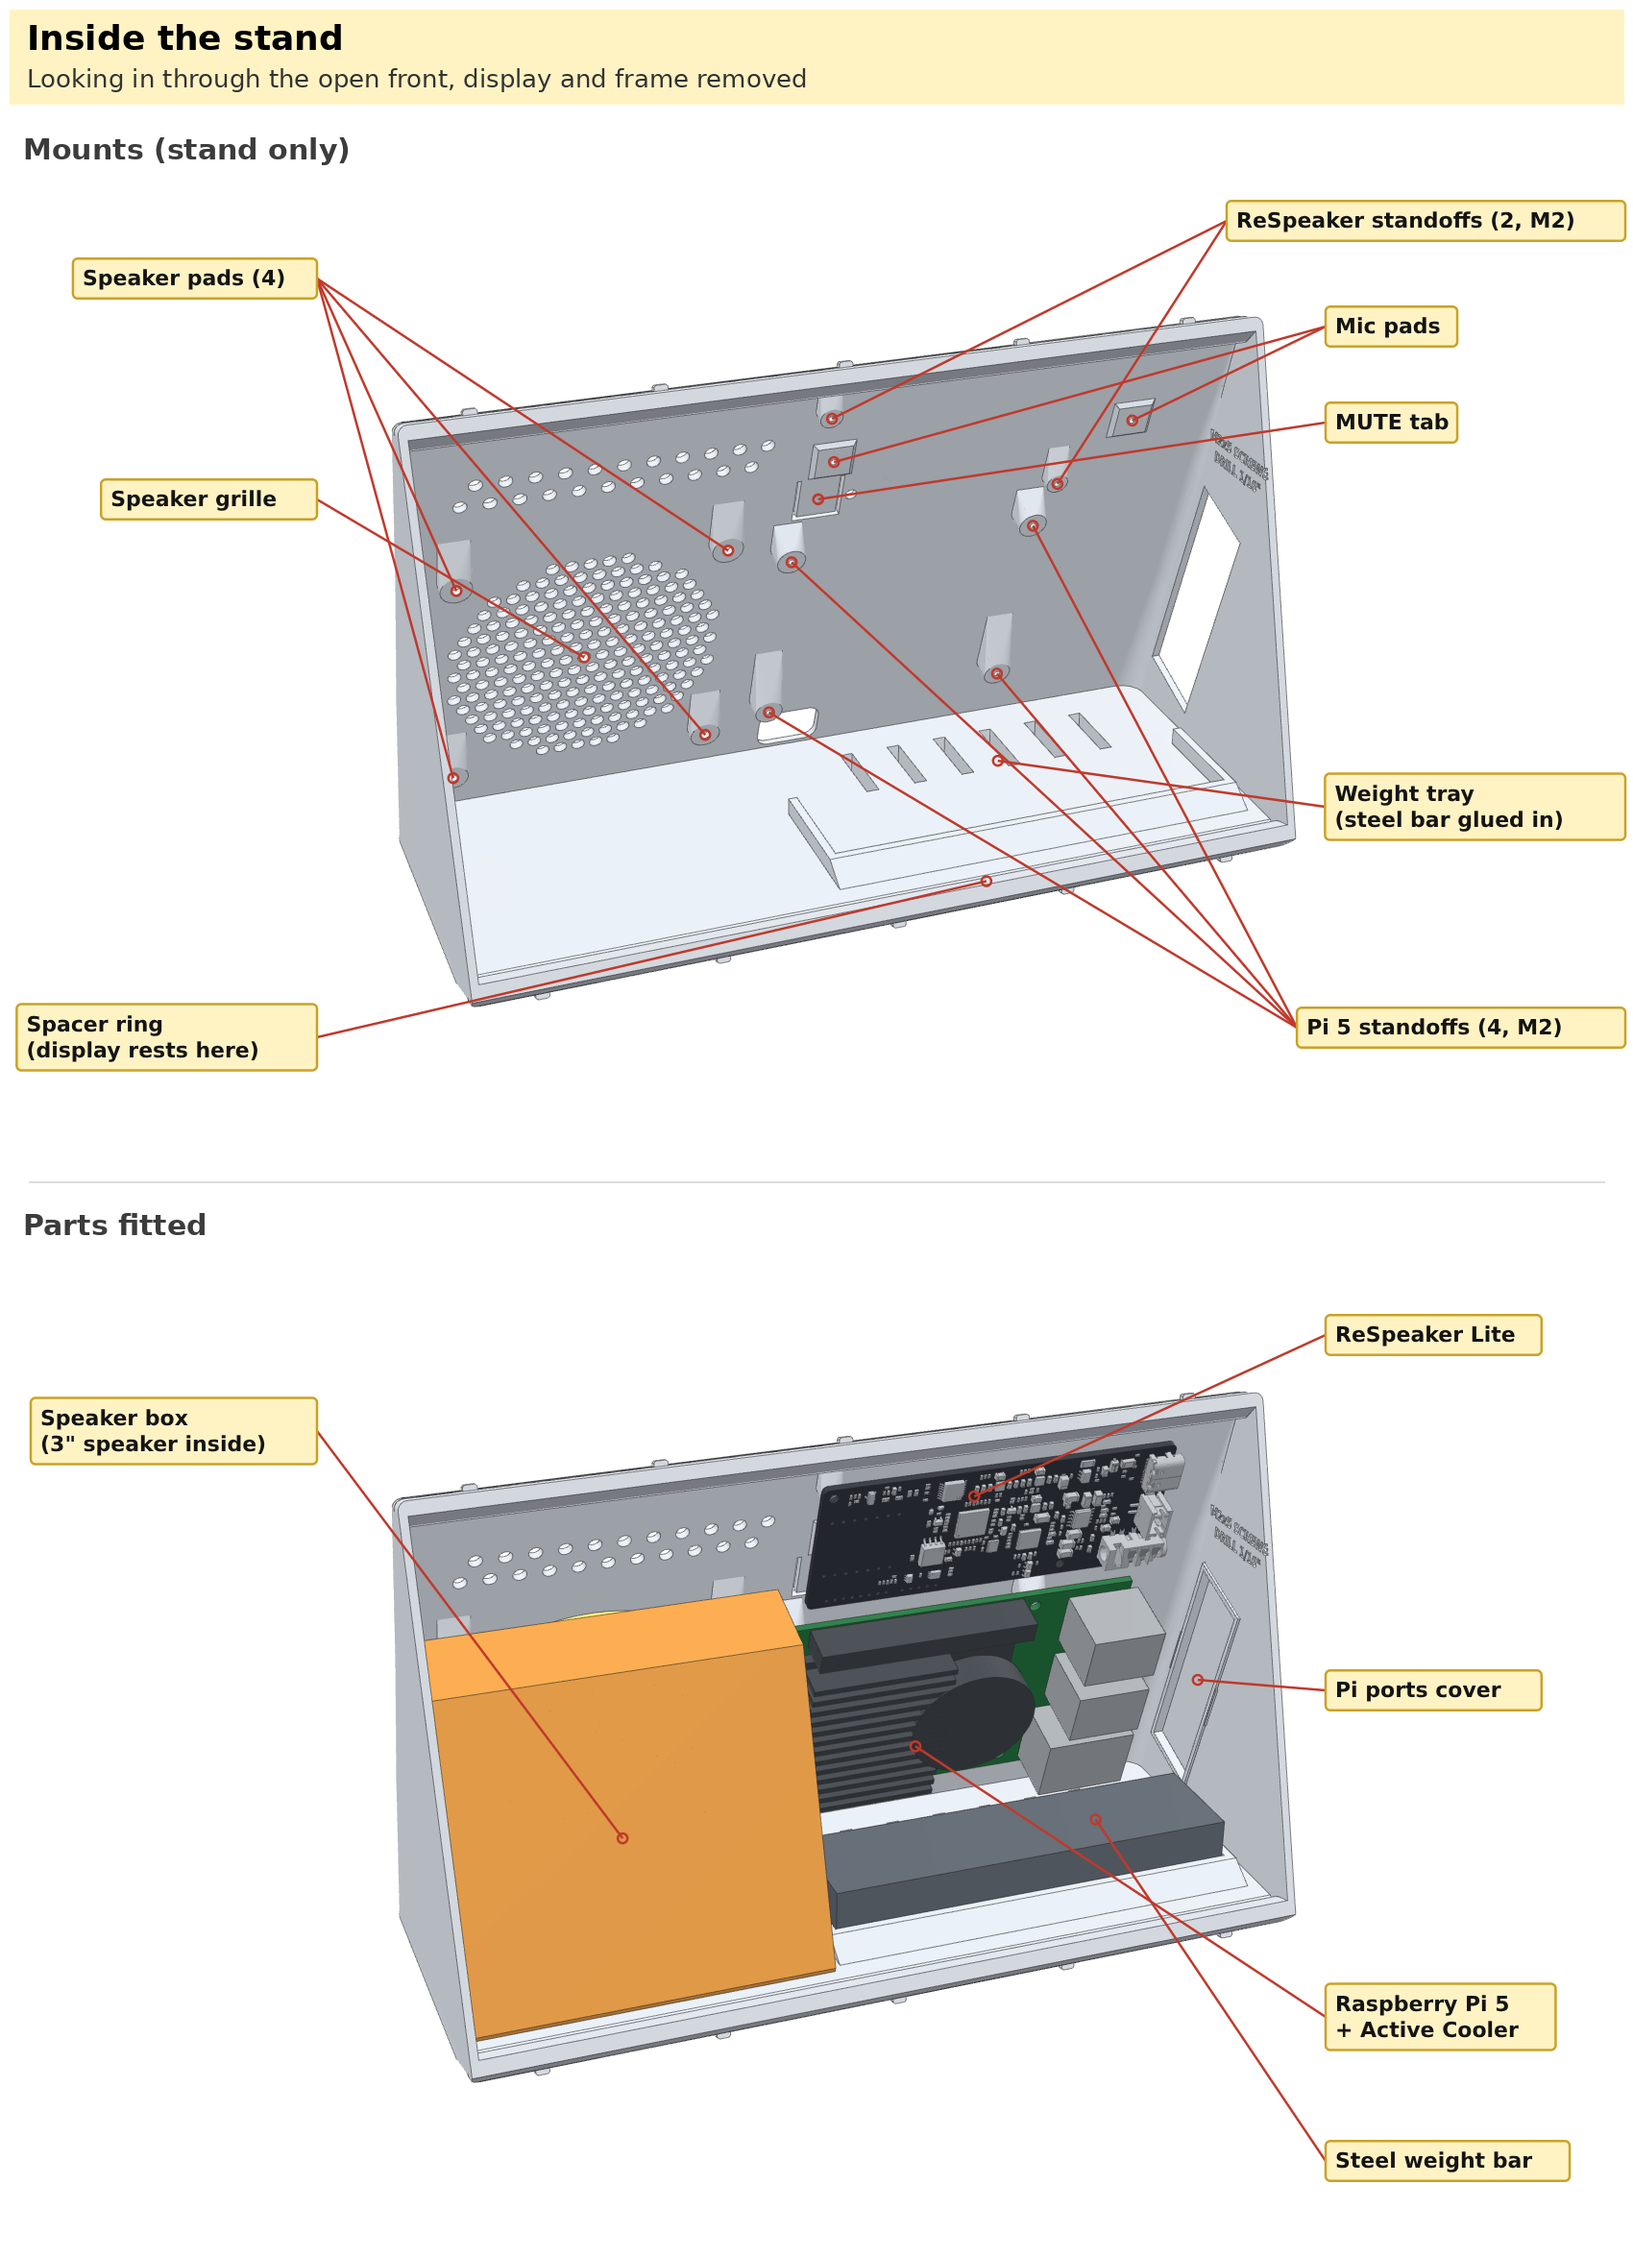
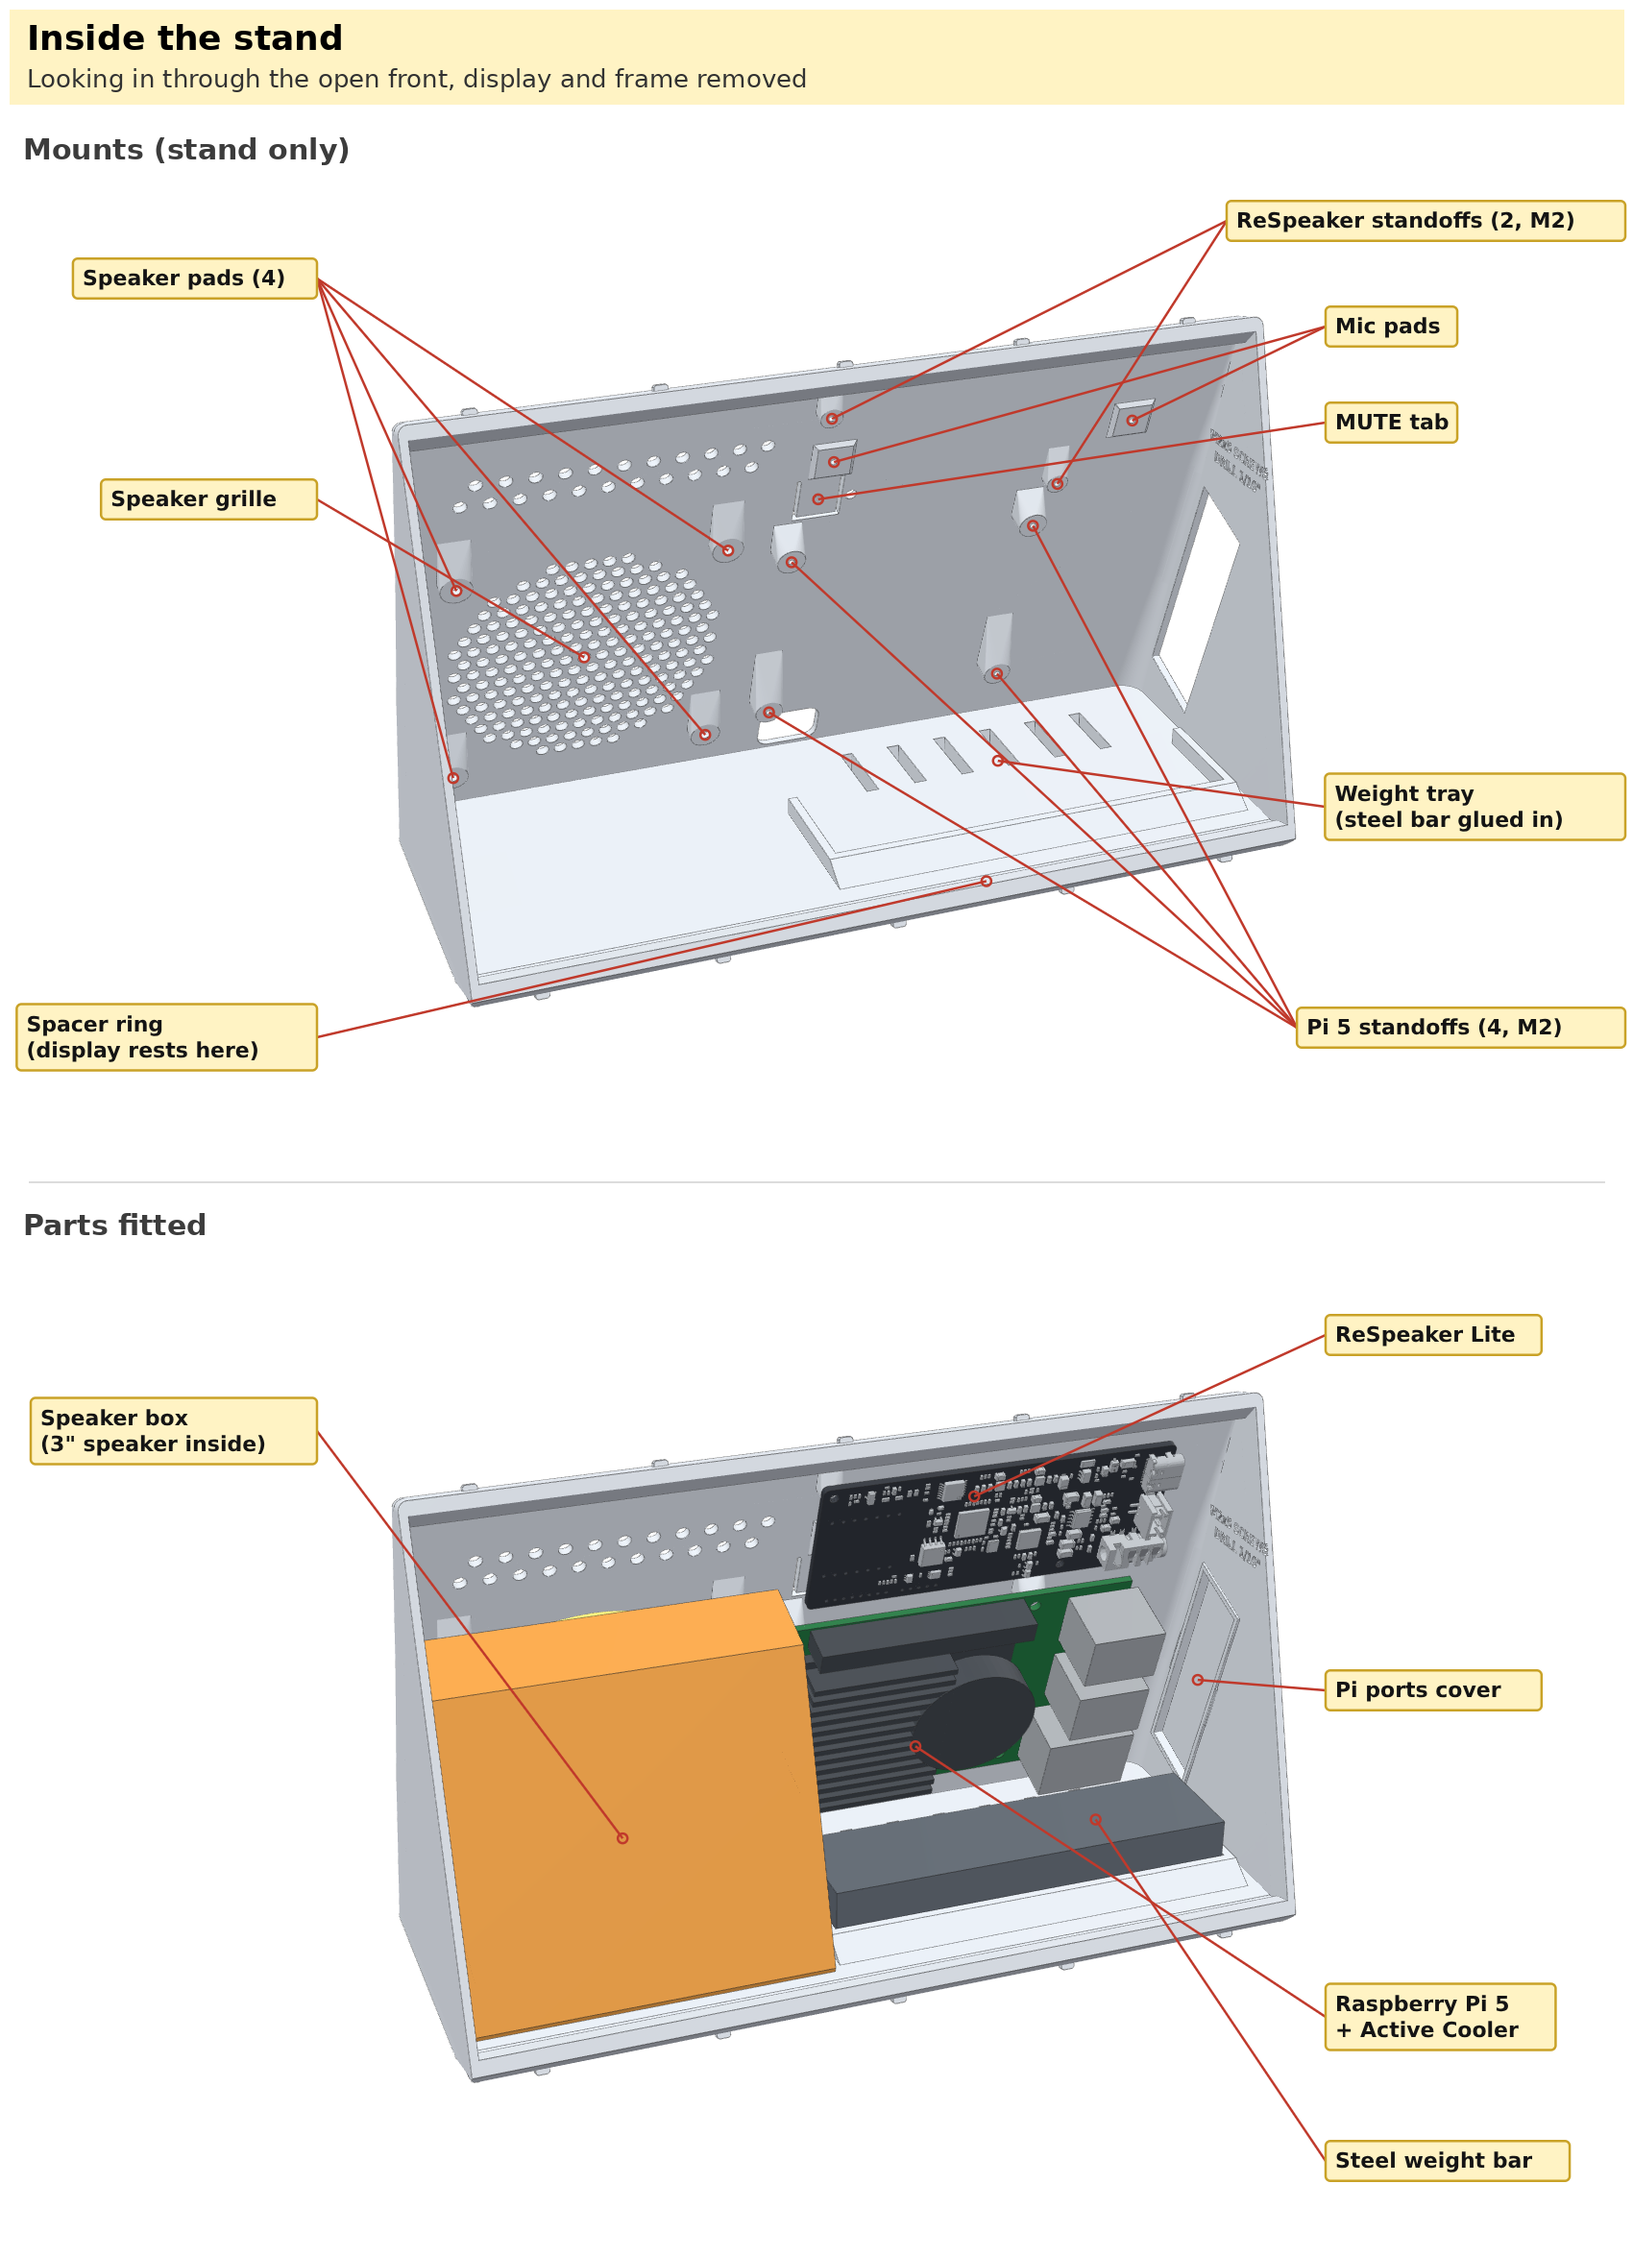
Renders: ignore sliver triangles when drawing edges
The line from the speaker grille to the lower speaker screw hole (and one
across the top right) were long, paper-thin sliver triangles left by the
boolean cuts. They lie flat in the surface (no gap, step or thickness) and
don't change the print (the original STL has 176 of them), but their
numerically meaningless normals made the renderer draw false edges.
Edges are now precomputed (source/render/edges.py) skipping slivers.
All images and the printer's picture re-rendered. Models unchanged.

Claude-Session: https://claude.ai/code/session_013mbAUoxRrcFvJomUevHXCc

diff --git a/source/render/page.html b/source/render/page.html
@@ -26,9 +26,12 @@ window.renderScene = async (S) => {
     const buf=await (await fetch(p.f)).arrayBuffer(); const g=ld.parse(buf); g.computeVertexNormals();
     const pc=p.noclip?[]:clips;
     const mat=new THREE.MeshStandardMaterial({color:p.c,roughness:p.rough??0.7,metalness:p.metal??0.0,side:THREE.DoubleSide,
-       transparent:p.o!==undefined,opacity:p.o??1,clippingPlanes:pc,flatShading:false,polygonOffset:true,polygonOffsetFactor:1,polygonOffsetUnits:1});
+       transparent:p.o!==undefined,opacity:p.o??1,clippingPlanes:pc,flatShading:false,polygonOffset:true,polygonOffsetFactor:0,polygonOffsetUnits:2});
     const m=new THREE.Mesh(g,mat); if(p.off) m.position.set(...p.off); m.castShadow=!!S.shadow; m.receiveShadow=false; sc.add(m);
-    if(p.e!==false){ const eg=new THREE.EdgesGeometry(g,p.ea||28);
+    if(p.e!==false){ let eg;
+      const ef=p.f.replace(/\.stl$/,'.edges'); const er=await fetch(ef);
+      if(er.ok && !p.ea){ const ab=await er.arrayBuffer(); eg=new THREE.BufferGeometry(); eg.setAttribute('position',new THREE.BufferAttribute(new Float32Array(ab),3)); }
+      else eg=new THREE.EdgesGeometry(g,p.ea||28);
       const lm=new THREE.LineSegments(eg,new THREE.LineBasicMaterial({color:p.ec||'#222',transparent:true,opacity:p.eo??0.55,clippingPlanes:pc})); if(p.off) lm.position.set(...p.off); sc.add(lm);}
     if(p.cap && clips.length){ // section cap: stencil trick
       const pl=clips[0];

diff --git a/source/render/edges.py b/source/render/edges.py
@@ -1,0 +1,16 @@
+"""Feature edges for the renderer: crease angle > threshold, ignoring degenerate sliver triangles
+(their normals are numerically meaningless and make false lines)."""
+import trimesh, numpy as np, sys
+def feature_edges(m, thr=28.0, min_area=0.05):
+    adj=m.face_adjacency; e=m.face_adjacency_edges; A=m.area_faces
+    tri=m.triangles; Lmax=np.linalg.norm(tri-np.roll(tri,1,axis=1),axis=2).max(1)
+    width=2*A/np.maximum(Lmax,1e-9)                 # triangle height over its longest side
+    sliver=(width<0.02)&(Lmax>1.0)                  # long and paper-thin: normal is meaningless
+    ok=~sliver[adj[:,0]]&~sliver[adj[:,1]]
+    ang=np.degrees(m.face_adjacency_angles)
+    keep=ok&(ang>thr)
+    # edges where a sliver sits between two real faces: compare the real faces across the sliver strip
+    return m.vertices[e[keep]].astype(np.float32)
+if __name__=='__main__':
+    for f in sys.argv[1:]:
+        m=trimesh.load(f,process=True); seg=feature_edges(m); seg.tofile(f[:-4]+'.edges'); print(f, len(seg),'edges')

diff --git a/source/slivers.py b/source/slivers.py
@@ -1,0 +1,7 @@
+import trimesh, numpy as np, sys
+def slivers(m, max_area=0.05, min_len=5.0):
+    tri=m.triangles; L=np.linalg.norm(tri-np.roll(tri,1,axis=1),axis=2).max(1)
+    return np.where((m.area_faces<max_area)&(L>min_len))[0]
+if __name__=='__main__':
+    for f in sys.argv[1:]:
+        m=trimesh.load(f); s=slivers(m); print(f'{f:28s} slivers (area<0.05 mm2, >5 mm long): {len(s)}')
